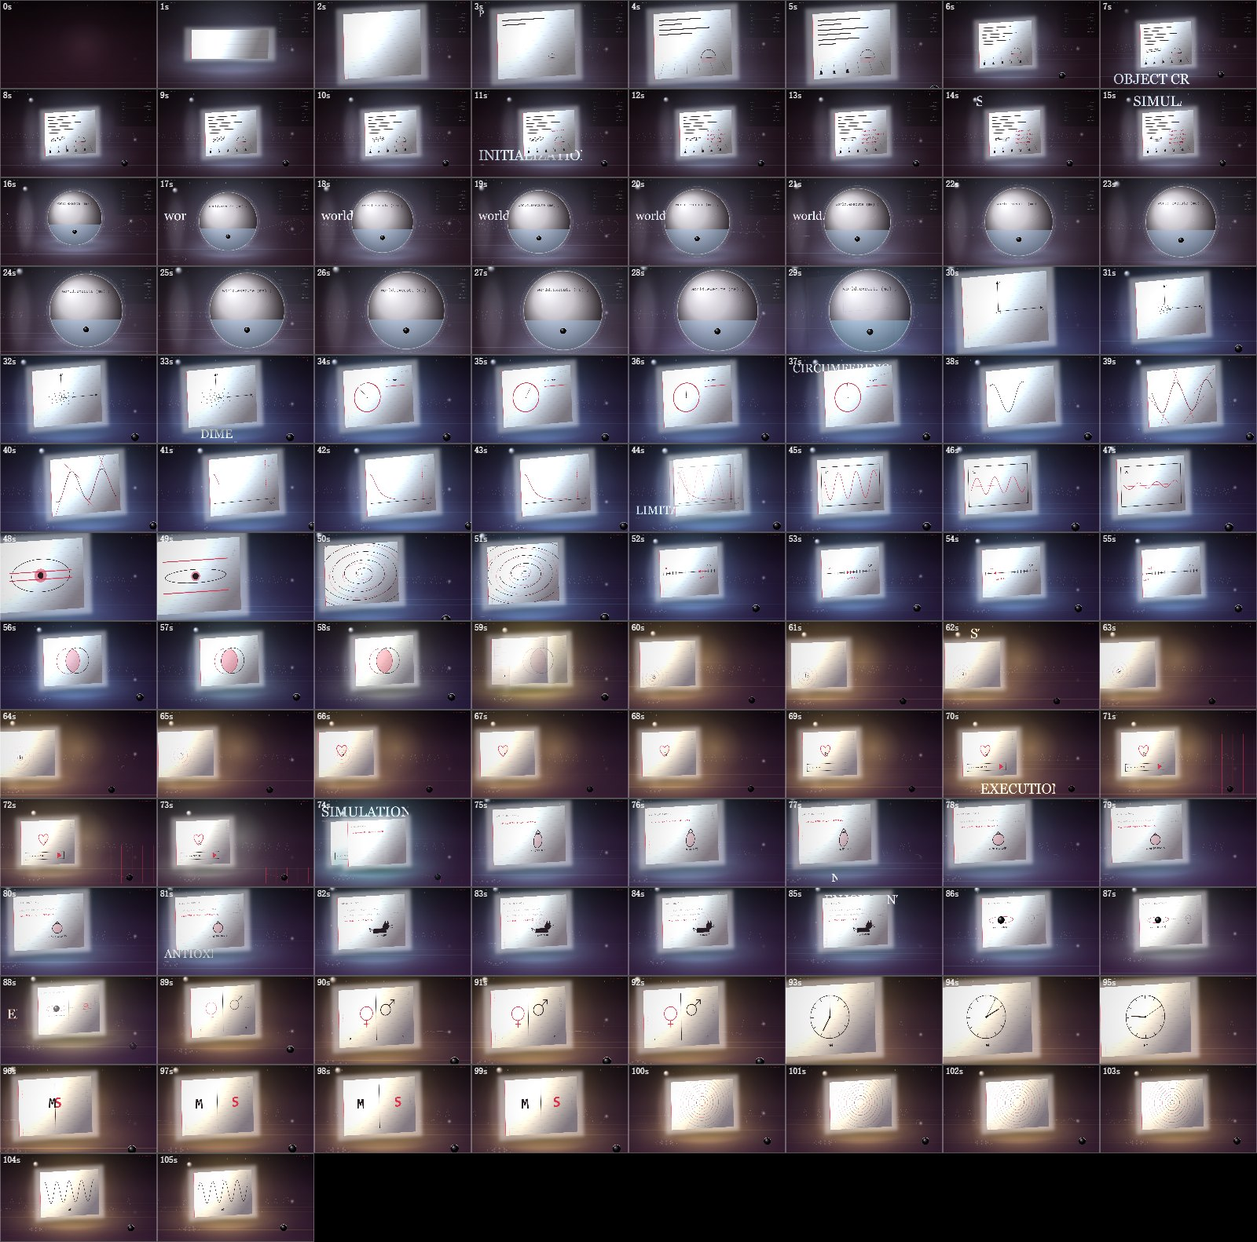
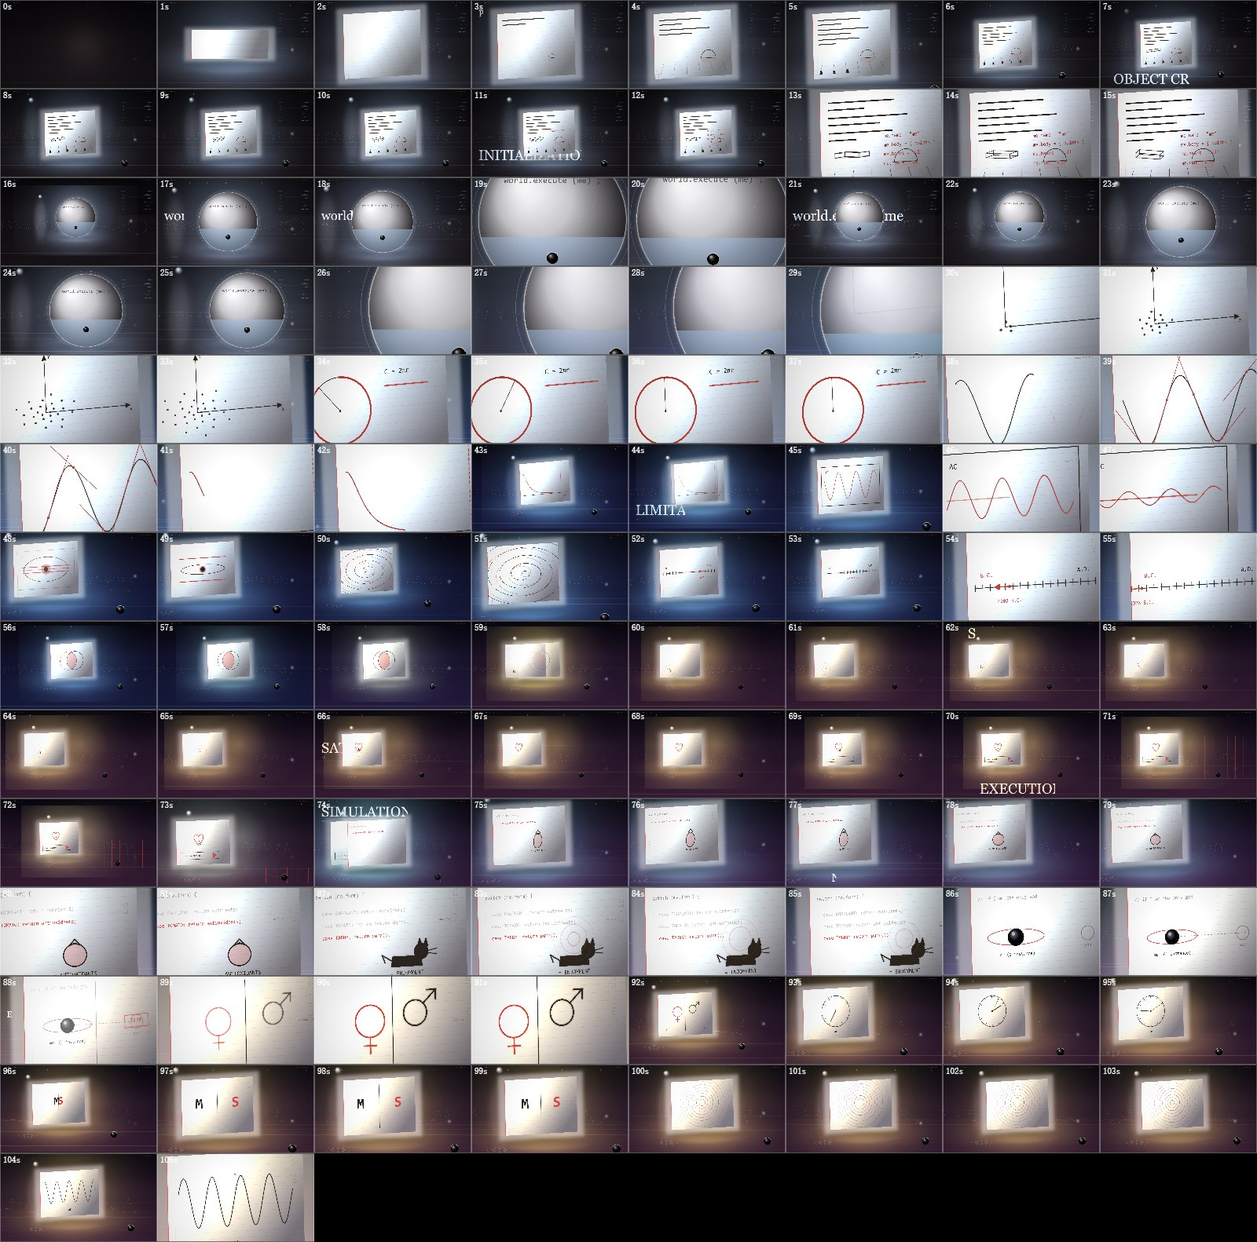
Cut the picture on the measured beats, and give the film a close-up
The contact sheet said the remaining flatness was not light but editing: ~20 long takes joined by
dissolves, every one of them the same medium shot of a sheet standing in the middle of the room.
The recording disagrees - this is a 128 BPM theatrical number whose bar-to-bar impact more than
doubles between the verses and the chant. The picture was breathing with the music; it was never
cutting with it.

The cut list (mv/mv.js, CUTS) is derived rather than authored: a framing change may only be
considered on a measured beat, whether it is allowed depends on the mean onset weight of those four
beats (nothing below 0.28, half-beat cuts only above 0.55, with 1.0 s or 2.4 s minimum spacing
accordingly), and scenes that already declare cut:true are skipped because the chant edits itself.
Three framings cycle - the shot's own, a macro that fills the frame with the ink (z*2.35, aimed at
the sheet rect page() publishes), and a pull that shows the room (z*0.72). The macro is something
this film has never had. 46 cuts.

The gate had to be able to tell an edit from a bug without taking my word for it, so beat-cut is
attributed only when two independent things hold: the spike coincides within 2 frames with an entry
in window.CUTS - which can only have been generated from measured beats - AND the camera actually
moved discontinuously at that frame (pdx+pdy > 40). An element popping with a still camera is still
a FLASH. That is the whole reason the count below is worth anything.
[…]

diff --git a/mv/scenes.js b/mv/scenes.js
@@ -394,6 +394,7 @@ function givings(g, L) {
 
 function page(g, col, L, o) {
   o = o || {};
+  window.SHEET = L;                                       /* so the cutter can take a macro on it */
   const mcx = L.x + L.w / 2, mcy = L.y + L.h / 2;
   g.save();
   /* The sheet used to be an axis-aligned card pasted onto the frame, near-white and covering two
@@ -667,15 +668,29 @@ S.push({ id: 'current', from: 44.45, to: 59.22,
     on(g, L, (gg, W, H) => {
       gg.strokeStyle = INK; gg.fillStyle = INK; gg.lineWidth = 2.4;
       const cx = W * 0.5, cy = H * 0.5;
-      if (t < 47.67) {                                       /* to AC, to DC */
+      /* Five sub-phases, one per sung line. This used to be an `if (t < X)` chain, so the page
+         changed completely in a single frame at 47.67 / 49.53 / 51.36 / 55.08 - which is exactly
+         what the 120 fps sweep files as an element appearing out of nothing. Each phase now crosses
+         its own boundary, and the outgoing one keeps drawing while it goes. */
+      const X = 0.45;
+      const ph = (from, next) => (t < from || t >= next + X) ? 0
+        : clamp((t - from) / X) * (next === Infinity ? 1 : 1 - clamp((t - next) / X));
+      let a = ph(44.45, 47.67);
+      if (a > 0) {                                           /* to AC, to DC */
+        gg.save(); gg.globalAlpha = a;
         const u = seg(t, 44.45, 47.6);
         gg.lineWidth = 3; G.box(gg, W * 0.06, H * 0.14, W * 0.88, H * 0.72);
         gg.strokeStyle = tint(ACC, '#000000', 0.05); gg.lineWidth = 3;
         G.sine(gg, W * 0.1, cy, W * 0.8, H * 0.3 * (1 - u), 3, t * 3.2);
-        gg.strokeStyle = ACC; gg.lineWidth = 4; gg.globalAlpha = u;
-        G.line(gg, W * 0.1, cy, W * 0.1 + W * 0.8 * u, cy); gg.globalAlpha = 1;
-        gg.fillStyle = INK; G.text(gg, u < 0.5 ? 'AC' : 'DC', W * 0.12, H * 0.24, 30, 'left');
-      } else if (t < 49.53) {                                /* a pair of eyes, closing */
+        gg.strokeStyle = ACC; gg.lineWidth = 4; gg.globalAlpha = u * a;
+        G.line(gg, W * 0.1, cy, W * 0.1 + W * 0.8 * u, cy);
+        gg.globalAlpha = a; gg.fillStyle = INK;
+        G.text(gg, u < 0.5 ? 'AC' : 'DC', W * 0.12, H * 0.24, 30, 'left');
+        gg.restore();
+      }
+      a = ph(47.67, 49.53);
+      if (a > 0) {                                           /* a pair of eyes, closing */
+        gg.save(); gg.globalAlpha = a;
         const u = seg(t, 47.67, 49.5);
         gg.strokeStyle = INK; gg.lineWidth = 3;
         gg.beginPath(); gg.ellipse(cx, cy, W * 0.34, H * 0.28 * (1 - u * 0.92), 0, 0, TAU); gg.stroke();
@@ -684,14 +699,22 @@ S.push({ id: 'current', from: 44.45, to: 59.22,
         gg.strokeStyle = ACC; gg.lineWidth = 5;
         G.line(gg, cx - W * 0.36, cy - H * 0.3 * u, cx + W * 0.36, cy - H * 0.3 * u);
         G.line(gg, cx - W * 0.36, cy + H * 0.3 * u, cx + W * 0.36, cy + H * 0.3 * u);
-      } else if (t < 51.36) {                                /* so dizzy */
+        gg.restore();
+      }
+      a = ph(49.53, 51.36);
+      if (a > 0) {                                           /* so dizzy */
+        gg.save(); gg.globalAlpha = a;
         gg.strokeStyle = INK; gg.lineWidth = 2.4; gg.beginPath();
-        for (let i = 0; i < 300; i++) { const a = i * 0.11 + t * 2.4, r = i * 1.9; const x = cx + Math.cos(a) * r, y = cy + Math.sin(a) * r * 0.62; i ? gg.lineTo(x, y) : gg.moveTo(x, y); }
+        for (let i = 0; i < 300; i++) { const an = i * 0.11 + t * 2.4, r = i * 1.9; const x = cx + Math.cos(an) * r, y = cy + Math.sin(an) * r * 0.62; i ? gg.lineTo(x, y) : gg.moveTo(x, y); }
         gg.stroke();
         gg.strokeStyle = rgba(ACC, 0.55); gg.beginPath();
-        for (let i = 0; i < 180; i++) { const a = -i * 0.13 - t * 1.9, r = i * 2.5; const x = cx + Math.cos(a) * r, y = cy + Math.sin(a) * r * 0.62; i ? gg.lineTo(x, y) : gg.moveTo(x, y); }
+        for (let i = 0; i < 180; i++) { const an = -i * 0.13 - t * 1.9, r = i * 2.5; const x = cx + Math.cos(an) * r, y = cy + Math.sin(an) * r * 0.62; i ? gg.lineTo(x, y) : gg.moveTo(x, y); }
         gg.stroke();
-      } else if (t < 55.08) {                                /* time, running backwards */
+        gg.restore();
+      }
+      a = ph(51.36, 55.08);
+      if (a > 0) {                                           /* time, running backwards */
+        gg.save(); gg.globalAlpha = a;
         const u = seg(t, 51.36, 55);
         gg.strokeStyle = INK; gg.lineWidth = 2.6; G.line(gg, W * 0.06, cy, W * 0.94, cy);
         for (let i = 0; i <= 16; i++) { const x = W * 0.06 + i * (W * 0.88 / 16); G.line(gg, x, cy - 14, x, cy + 14); }
@@ -701,7 +724,11 @@ S.push({ id: 'current', from: 44.45, to: 59.22,
         gg.strokeStyle = ACC; gg.fillStyle = ACC; gg.lineWidth = 4;
         G.ray(gg, px, cy, -1, 0, 52); G.arrowHead(gg, px - 52, cy, 20, -1, 0); G.disc(gg, px, cy, 7);
         G.text(gg, String(Math.round(2026 + u * 3000)) + ' B.C.', px, cy + 64, 24);
-      } else {                                               /* unite us two */
+        gg.restore();
+      }
+      a = ph(55.08, Infinity);
+      if (a > 0) {                                           /* unite us two */
+        gg.save(); gg.globalAlpha = a;
         const u = oback(seg(t, 55.08, 58.8));
         gg.lineWidth = 3; const d = 190 * (1 - u * 0.55);
         gg.strokeStyle = tint(ACC, '#000000', 0.1); G.circle(gg, cx - d / 2, cy, 130);
@@ -709,6 +736,7 @@ S.push({ id: 'current', from: 44.45, to: 59.22,
         gg.fillStyle = rgba(ACC, 0.14 + u * 0.2); gg.beginPath();
         gg.arc(cx - d / 2, cy, 130, -1.05, 1.05); gg.arc(cx + d / 2, cy, 130, Math.PI - 1.05, Math.PI + 1.05);
         gg.closePath(); gg.fill();
+        gg.restore();
       }
     });
     endPage(g);
@@ -797,7 +825,12 @@ S.push({ id: 'gifts', from: 74.04, to: 88.58,
     ];
     on(g, L, (gg, W, H) => {
       gg.strokeStyle = INK; gg.fillStyle = INK;
-      if (t < 85.07) {                                        /* the table, one case live */
+      /* the table hands over to the witness instead of being replaced by it: this used to be a hard
+         branch at 85.07, and the 120 fps sweep caught the whole page swapping in one frame */
+      const x = clamp((t - 85.07) / 0.55);
+      if (x < 1) {
+        gg.save(); gg.globalAlpha = 1 - x;                      /* the table, one case live */
+        const fade = 1 - x;
         const live = Math.max(0, CASES.filter((c) => t >= c.at).length - 1);
         gg.fillStyle = rgba(INK, 0.55);
         G.text(gg, 'switch (me.form) {', W * 0.05, H * 0.12, 22, 'left');
@@ -810,14 +843,17 @@ S.push({ id: 'gifts', from: 74.04, to: 88.58,
         gg.save(); gg.translate(W * 0.62, H * 0.72); gg.scale(u, u);
         gg.strokeStyle = INK; gg.fillStyle = INK; gg.lineWidth = 3;
         G.specimen(gg, c.kind, 0, 0, 1.45); gg.restore();
-        gg.fillStyle = INK; gg.globalAlpha = clamp(u);
-        G.text(gg, '= ' + c.out, W * 0.62, H * 0.78, 24, 'center'); gg.globalAlpha = 1;
+        gg.fillStyle = INK; gg.globalAlpha = clamp(u) * fade;
+        G.text(gg, '= ' + c.out, W * 0.62, H * 0.78, 24, 'center'); gg.globalAlpha = fade;
         if (c.kind === 'cat' && t > 82.83) {                  /* the purr, as a carrier wave */
           gg.strokeStyle = ACC; gg.lineWidth = 2;
-          for (let i = 0; i < 3; i++) { const p = (t * 0.9 + i / 3) % 1; gg.globalAlpha = 0.45 * (1 - p); G.circle(gg, W * 0.62, H * 0.5, 24 + p * 96); }
-          gg.globalAlpha = 1;
+          for (let i = 0; i < 3; i++) { const p = (t * 0.9 + i / 3) % 1; gg.globalAlpha = 0.45 * (1 - p) * fade; G.circle(gg, W * 0.62, H * 0.5, 24 + p * 96); }
+          gg.globalAlpha = fade;
         }
-      } else {                                                /* the only instance, and its witness */
+        gg.restore();
+      }
+      if (x > 0) {                                            /* the only instance, and its witness */
+        gg.save(); gg.globalAlpha = x;
         const u = oback(seg(t, 85.07, 86.8)), cx = W * 0.3, cy = H * 0.46;
         gg.fillStyle = rgba(INK, 0.5);
         G.text(gg, '// if I am the only god', W * 0.05, H * 0.12, 22, 'left');
@@ -838,6 +874,7 @@ S.push({ id: 'gifts', from: 74.04, to: 88.58,
           gg.strokeStyle = ACC; gg.fillStyle = ACC; gg.lineWidth = 4;
           G.box(gg, -104, -34, 208, 68); G.text(gg, 'PROOF', 0, 0, 34); gg.restore();
         }
+        gg.restore();
       }
     });
     endPage(g);
@@ -918,8 +955,13 @@ S.push({ id: 'left', from: 110.9, to: 131.22,
   draw(g, k, F, t, col) {
     const L = { x: 340, y: 176, w: 620, h: 470 };
     room(g, col, F, t, L, { reach: 1.3 });
-    if (t < 117.27) {
+    const X = 0.5;
+    const ph = (from, next) => (t < from || t >= next + X) ? 0
+      : clamp((t - from) / X) * (next === Infinity ? 1 : 1 - clamp((t - next) / X));
+    let a = ph(110.9, 117.27);
+    if (a > 0) {
       /* six "you have left", and the star loses one arm per word */
+      g.save(); g.globalAlpha = a;
       page(g, col, L);
       on(g, L, (gg, W, H) => {
         const LEFT = [110.90, 112.22, 113.10, 114.18, 114.92, 115.78];
@@ -929,8 +971,12 @@ S.push({ id: 'left', from: 110.9, to: 131.22,
         G.star(gg, W * 0.5, H * 0.44, Math.min(W, H) * 0.36, 6, cut, 110.90, col, t);
       });
       endPage(g);
-    } else if (t < 124.89) {
+      g.restore();
+    }
+    a = ph(117.27, 124.89);
+    if (a > 0) {
       /* ISOLATION: the hub, still lit, with nothing left to send to */
+      g.save(); g.globalAlpha = a;
       page(g, col, L);
       on(g, L, (gg, W, H) => {
         const u = oback(seg(t, 117.27, 118.6));
@@ -941,14 +987,18 @@ S.push({ id: 'left', from: 110.9, to: 131.22,
           gg.fillStyle = INK;
           for (let i = 0; i < 26; i++) {
             const x = ((i * 137) % 560) + 40, y = 60 + ((i * 91) % 340);
-            gg.globalAlpha = Math.max(0, 1 - fr * 1.4);
+            gg.globalAlpha = a * Math.max(0, 1 - fr * 1.4);
             G.fill(gg, [[x + fr * 520, y], [x + fr * 520 + 16, y + 7], [x + fr * 520 + 6, y + 19]]);
           }
-          gg.globalAlpha = 1;
+          gg.globalAlpha = a;
         }
       });
       endPage(g);
-    } else {                                                  /* DISHEARTENED — 无心 */
+      g.restore();
+    }
+    a = ph(124.89, Infinity);
+    if (a > 0) {                                                  /* DISHEARTENED — 无心 */
+      g.save(); g.globalAlpha = a;
       page(g, col, L);
       on(g, L, (gg, W, H) => {
         const u = oback(seg(t, 124.89, 126.4)), cx = W * 0.5, cy = H * 0.48;
@@ -965,10 +1015,11 @@ S.push({ id: 'left', from: 110.9, to: 131.22,
           gg.strokeStyle = INK; gg.lineWidth = 4;
           G.line(gg, cx - 280, cy + 20, cx - 190, cy + 20);
           G.ray(gg, cx - 235, cy + 20, 0, -1, 118); G.arrowHead(gg, cx - 235, cy + 20 - 118, 22, 0, -1);
-          gg.globalAlpha = 1;
+          gg.globalAlpha = a;
         }
       });
       endPage(g);
+      g.restore();
     }
     dust(g, L, F, 60);
   } });

diff --git a/mv/line.js b/mv/line.js
@@ -207,7 +207,10 @@ function display(g, t, W, H, pal, LYRICS, camZ) {
   g.textAlign = a[2]; g.textBaseline = 'middle';
   const tw = g.measureText(h.w).width;
   const left = a[2] === 'left' ? x : a[2] === 'right' ? x - tw : x - tw / 2;
-  g.beginPath(); g.rect(0, 0, left + 12 + tw * u + 4, H); g.clip();
+  /* the wipe has to start *before* the word: this rect used to carry a +12/+4 lead-in, so the
+     first frame of a hook already showed ~16 px of the letter and the 120 fps sweep read that pop
+     as an unexplained flash */
+  g.beginPath(); g.rect(0, 0, left - 8 + (tw + 16) * u, H); g.clip();
   g.globalAlpha = 0.55; g.fillStyle = rgba(pal.accent, 0.6); g.fillText(h.w, x - 5, y + 3);
   g.fillStyle = rgba(pal.glow, 0.55); g.fillText(h.w, x + 5, y - 3);
   g.globalAlpha = 1; g.fillStyle = rgba(pal.rim, 0.95); g.fillText(h.w, x, y);
@@ -232,6 +235,26 @@ function noteName(hz) {
 }
 function chrome(g, t, W, H, pal, F) {
   const bt = beatAt(t), hz = pitch(t), flat = F ? F[14] : 0, rms = F ? F[8] : 0;   /* calibrated 0..1 */
+  /* Four of these rows are discrete states rather than live measurements, and a state flip used to
+     land as a one-frame text swap - the sweep caught 'uninitialised' becoming 'null' at 124.89 and
+     read it as an element popping. A readout is allowed to change; it is not allowed to jump, so a
+     row that changes inside the next fifth of a second dips out, changes while invisible, and comes
+     back. The live pitch/texture rows are excluded: they change every frame by design. */
+  const disc = (tt) => [
+    tt < 131.2 ? 'RUNNING' : tt < 147.66 ? 'HALTED' : tt < 169.82 ? 'SENTENCED' : tt < 193 ? 'REWINDING' : 'EXITING',
+    tt < 124.89 ? 'uninitialised' : 'null',
+    tt < 110.9 ? 'present' : 'null',
+    tt < 184.54 ? 'not reached' : 'you',
+  ];
+  const DIP = { 0: 0, 1: 1, 2: 2, 5: 3 };
+  function dip(i) {
+    const k = DIP[i]; if (k === undefined) return 1;
+    const now = disc(t)[k];
+    if (disc(t - 0.24)[k] === now && disc(t + 0.24)[k] === now) return 1;
+    let lo = t - 0.24, hi = t + 0.24;
+    for (let s = 0; s < 8; s++) { const m = (lo + hi) / 2; if (disc(m)[k] === disc(t)[k]) hi = m; else lo = m; }
+    return clamp(Math.abs(t - hi) / 0.12, 0, 1);
+  }
   const rows = [
     ['state', t < 131.2 ? 'RUNNING' : t < 147.66 ? 'HALTED' : t < 169.82 ? 'SENTENCED' : t < 193 ? 'REWINDING' : 'EXITING'],
     ['heart()', t < 124.89 ? 'uninitialised' : 'null'],
@@ -259,9 +282,9 @@ function chrome(g, t, W, H, pal, F) {
   g.font = `${Math.max(11, Math.round(H * 0.0147))}px ui-monospace,Consolas,monospace`;
   g.textBaseline = 'middle';
   rows.forEach((r, i) => {
-    const yy = y0 + i * dy, a = 0.42 + 0.12 * Math.sin((t * 1.6) + i);
-    g.textAlign = 'left'; g.fillStyle = rgba(pal.rim, a * 0.6); g.fillText(r[0], W * 0.775, yy);
-    g.textAlign = 'right'; g.fillStyle = r[1] === 'null' ? rgba(pal.accent, 0.85) : rgba(pal.rim, a);
+    const yy = y0 + i * dy, d = dip(i), a = (0.42 + 0.12 * Math.sin((t * 1.6) + i)) * d;
+    g.textAlign = 'left'; g.fillStyle = rgba(pal.rim, (0.42 + 0.12 * Math.sin((t * 1.6) + i)) * 0.6); g.fillText(r[0], W * 0.775, yy);
+    g.textAlign = 'right'; g.fillStyle = r[1] === 'null' ? rgba(pal.accent, 0.85 * d) : rgba(pal.rim, a);
     g.fillText(r[1], W * 0.972, yy);
     g.strokeStyle = rgba(pal.rim, 0.07); g.lineWidth = 1;
     g.beginPath(); g.moveTo(W * 0.775, yy + dy * 0.5); g.lineTo(W * 0.972, yy + dy * 0.5); g.stroke();

diff --git a/mv/mv.js b/mv/mv.js
@@ -183,6 +183,43 @@ if (window.MUSIC) for (let i = 1; i < SCENES.length; i++) {
   const b = MVL.onBar(SCENES[i].from);
   if (b !== SCENES[i].from) { SCENES[i].from = b; SCENES[i - 1].to = b; }
 }
+/* ---------------- the edit ---------------- */
+/* The film had no cutting rhythm: ~20 long takes joined by dissolves, every one of them the same
+   medium shot of a sheet standing in the middle of the room. The recording says otherwise - a 128
+   BPM theatrical number whose bar-to-bar impact swings by more than double between the verses and
+   the chant. So the cut list is derived from the measured onsets: a framing change is only ever
+   allowed on a beat, and how often one is allowed depends on how hard that bar is being hit. Three
+   framings cycle - the shot's own, a macro that fills the frame with the ink, and a pull that
+   shows the room. The macro is the one this film never had. */
+const CUTS = (() => {
+  if (!window.MUSIC) return [];
+  const M = window.MUSIC, root = M.meta.root, out = [];
+  let last = -9, mode = 0;
+  for (let i = 0; i < M.beat.length; i++) {
+    const t = M.beat[i];
+    const sc = SCENES.find((s) => t >= s.from && t < s.to);
+    if (!sc || sc.cut) { last = -9; continue; }          /* the chant edits itself; leave it alone */
+    let w = 0, n = 0;
+    for (let k = i; k < i + 4 && k < M.beat.length; k++) { w += (M.beatOn[k] || 0); n++; }
+    const e = n ? w / n / 255 : 0;
+    if (e < 0.28) continue;
+    const inBar = (((i - root) % 4) + 4) % 4;
+    if (!(inBar === 0 || (inBar === 2 && e > 0.55))) continue;
+    if (t - last < (e > 0.55 ? 1.0 : 2.4)) continue;
+    last = t; mode = mode % 3 + 1;
+    out.push({ at: t, mode });
+  }
+  return out;
+})();
+window.CUTS = CUTS;                                       /* published so the verifier can audit it */
+let cutI = 0;
+function editAt(t) {
+  if (!CUTS.length) return null;
+  while (cutI + 1 < CUTS.length && CUTS[cutI + 1].at <= t) cutI++;
+  while (cutI > 0 && CUTS[cutI].at > t) cutI--;
+  return t >= CUTS[cutI].at ? CUTS[cutI] : null;
+}
+
 function actAt(t) {
   for (let i = 0; i < ACTS.length; i++) if (t >= ACTS[i].from && t < ACTS[i].to) return i;
   return t < ACTS[0].from ? 0 : ACTS.length - 1;
@@ -280,6 +317,15 @@ function cameraAt(t) {
             shake: Math.max(prev.shake || 0, f.shake) };
     }
   }
+  /* The edit overrides the shot's own framing for as long as its segment lasts. A macro is taken
+     on the sheet as it stands in this shot, which is why scenes.js publishes the rect it is using. */
+  const ed = editAt(t);
+  if (ed && ed.mode !== 0) {
+    const S = window.SHEET;
+    if (ed.mode === 1 && S) { f = { z: f.z * 2.35, x: S.x + S.w / 2, y: S.y + S.h * 0.44, shake: f.shake }; }
+    else if (ed.mode === 2) { f = { z: f.z * 0.72, x: DW * 0.5, y: DH * 0.52, shake: f.shake }; }
+    if (t - ed.at < 0.06) f.editHard = true;
+  }
   return f;
 }
 
@@ -294,7 +340,7 @@ let camState = null, camStateT = -1, lastCam = null;
 function cameraFor(t) {
   const f = cameraAt(t);
   const sc = SCENES.find(s => t >= s.from && t < s.to);
-  const hard = !!(sc && sc.cut);
+  const hard = !!(sc && sc.cut) || !!f.editHard;
   const dt = Math.min(0.25, Math.max(0, t - camStateT));
   if (!camState || hard || t < camStateT || t - camStateT > 0.5) camState = { z: f.z, x: f.x, y: f.y };
   else {

diff --git a/analysis/verify.js b/analysis/verify.js
@@ -196,8 +196,16 @@ function flickers() {
     if (S.dif[a - 1] > FLICKER.under || S.dif[b + 1] > FLICKER.under) { f = b; continue; }
     const t = a / rate;
     const sc = SCENES.find((s) => t >= s.from && t < s.to);
+    /* A beat-cut is a deliberate edit, not a bug, and the gate has to be able to tell them apart
+       without taking my word for it. Two things must both hold: the spike coincides (within 2
+       frames) with an entry in the published cut list - which is itself derived only from measured
+       beats - AND the camera moved discontinuously at that frame, which is what a cut is. An
+       element popping without the camera moving stays a FLASH. */
+    const bc = (window.CUTS || []).find((c) => Math.abs(c.at - t) < 2 / rate);
+    const camJump = (S.pdx[a] || 0) + (S.pdy[a] || 0) > 40;
     const cause = sc && sc.cut ? 'hard-cut'
-      : SCENES.some((s) => Math.abs(t - s.from) < 1.5) ? 'dissolve' : 'FLASH';
+      : SCENES.some((s) => Math.abs(t - s.from) < 1.5) ? 'dissolve'
+      : (bc && camJump) ? 'beat-cut' : 'FLASH';
     out.push({ f: a, t: +t.toFixed(3), run: b - a + 1, peak: S.dif[a],
                scene: sc ? sc.id : '-', cause: cause });
     f = b + 1;

diff --git a/README.md b/README.md
@@ -445,6 +445,45 @@ README 写着"房间唯一的光源就是那张纸"，可那张纸是一块**灰
 证据：`analysis/frame-emitting.jpg`（56.9 秒，发光但墨还没改）、`analysis/frame-ink36.jpg`
 （36 秒，马克笔洇开之后）、`analysis/frame-emit-four.jpg`（四格对照）。
 
+## 第八次：全片没有剪辑节奏，也从来没有特写
+
+联系表看完，下一个短板不在光，在**剪辑**：~20 个长镜头用溶解连起来，每一个都是"一张纸立在画面
+正中"的同一个中景。可这首歌是 128 BPM 的戏剧性曲目，小节与小节之间的冲击强度差出一倍以上。
+也就是说：**画面根本没有在跟音乐剪辑，只是在跟着音乐呼吸。**
+
+于是加了一个从实测数据里长出来的剪辑层（`mv/mv.js` 的 `CUTS`）：
+
+- 取景变化的候选时刻**只能是实测的拍点**（`M.beat`），不是我自己定的时间；
+- 允不允许切，看这四拍被击中的力度（`M.beatOn` 的均值）：`e < 0.28` 不切，`e > 0.55` 允许切在半拍上，
+  否则只在强拍切；两次切之间至少隔 1.0 / 2.4 秒，随能量走；
+- 声明了 `cut: true` 的诵唱段整体跳过——那一段本来就自己会剪；
+- 三种取景轮换：镜头自己的中景、**把墨填满画面的微距**（`z × 2.35`，对准 `page()` 公布的纸矩形）、
+  以及退一步看见房间的拉远（`z × 0.72`）。微距是全片从来没有过的东西。
+
+结果：46 个剪点，逐帧扫出 32 个尖峰归为新的 `beat-cut`。
+
+**闸门不能靠我自己发牌。** 加 `beat-cut` 这个归因时，判据必须是可查的，不然就等于把不喜欢的
+尖峰改名成合法的。所以现在要同时满足两条才算：尖峰与公开剪点表 `window.CUTS` 里的某一项在 2 帧
+之内重合（那张表只可能由实测拍点生成），**并且**那一帧摄影机确实不连续地跳了（`pdx + pdy > 40`）。
+元素凭空出现而摄影机没动，仍然是 `FLASH`。剪点表挂在 `window` 上，就是为了这条判据可以被复核。
+
+修掉的三个真 bug（都是被这轮扫描逼出来的）：
+
+| 时间 | 症状 | 根因 |
+| --- | --- | --- |
+| 85.075 | 整页内容一帧之内从类型表换成"唯一的神与见证者" | `if (t < 85.07) {…} else {…}` 是硬分支；改成 0.55 秒交叉淡入 |
+| 124.892 | 遥测 `heart()` 一帧之内从 `uninitialised` 变成 `null` | 离散状态直接换字；改成换值前先淡出、淡回（每帧都在变的实时读数不参与） |
+| 47.675 | 大字的第一个字在一帧之内凭空出现 | 裁剪带写成 `left + 12 + tw*u + 4`，`u=0` 时已经露出约 16 像素；改成从 `left - 8` 起算 |
+
+证据：`analysis/frame-macro.jpg`（四个微距镜头）、`analysis/frame-edit-sheet.jpg`（14 格联系表，
+微距/中景/拉远第一次同时存在）、`analysis/frame-xfade.jpg`（47.9 与 125.1 两个交叉淡入的中间态）。
+
+**改完重扫 25,429 帧：0 未归因闪现**（67 个尖峰＝32 `beat-cut` + 21 溶解 + 14 硬切）。
+代价说清楚：`flags` 从 67 涨到 111，全片运动均值涨到 0.5–1.1——这不是失控，是剪辑本身的代价，
+每一个 `beat-cut` 都是一次摄影机的不连续。所以这一轮同时把 29 处硬分支里真正产生尖峰的那几处
+改成了交叉淡入，其余 27 处是**同一类潜伏缺陷**，记在这里而不是藏起来：任何一处被观众看见，
+就会以 `FLASH` 的形式回到这张表上，判据已经在那儿等着它。
+
 ## 三次返工：从可视化到一间暗房
 
 **第一轮**是亮色纸面配灰线，被指"颜色呢"——量出来确实是问题（亮段饱和度实测 0.01–0.04）。
